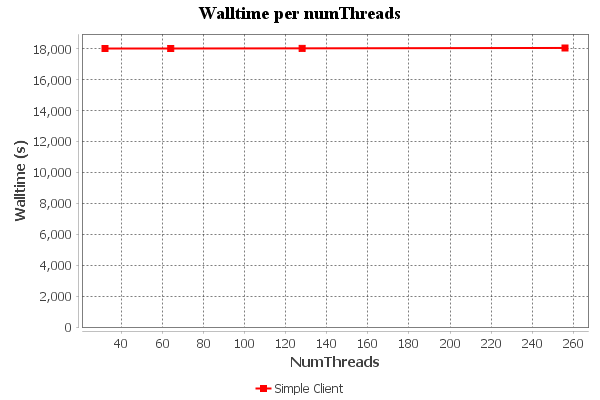
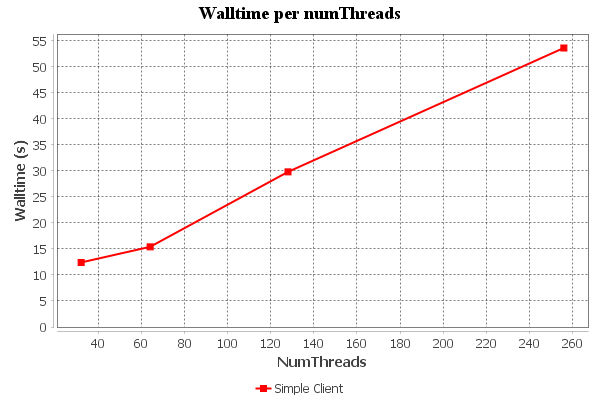
change main thread logic to start store threads (misundertood requirements before)

diff --git a/a1client2/src/main/java/SuperMarketClient.java b/a1client2/src/main/java/SuperMarketClient.java
@@ -13,6 +13,7 @@ import java.util.concurrent.Executors;
 import java.util.concurrent.ScheduledExecutorService;
 import java.util.concurrent.ThreadPoolExecutor;
 import java.util.concurrent.TimeUnit;
+import java.util.concurrent.atomic.AtomicBoolean;
 import java.util.concurrent.atomic.AtomicInteger;
 import java.util.concurrent.atomic.AtomicLong;
 import multithread.CSVWriter;
@@ -32,7 +33,6 @@ public class SuperMarketClient {
     Properties prop = SuperMarketConfig.loadConfig();
     assert prop != null;
     int[] numThreadsArray = {32, 64, 128, 256};
-//    int[] numThreadsArray = {4000};
     double[] throughputs = new double[numThreadsArray.length];
     double[] means = new double[numThreadsArray.length];
 
@@ -42,7 +42,7 @@ public class SuperMarketClient {
 
       BlockingQueue<String> responses = new ArrayBlockingQueue<>(100000);
       ThreadPoolExecutor producers = (ThreadPoolExecutor) Executors.newFixedThreadPool(1000);
-      ThreadPoolExecutor consumers = (ThreadPoolExecutor) Executors.newFixedThreadPool(30);
+      ThreadPoolExecutor consumers = (ThreadPoolExecutor) Executors.newFixedThreadPool(60);
 
       int latencyLowerBarrier = Integer.parseInt(prop.getProperty(Constants.LATENCY_LOWER_BARRIER));
       int latencyUpperBarrier = Integer.parseInt(prop.getProperty(Constants.LATENCY_UPPER_BARRIER));
@@ -67,18 +67,21 @@ public class SuperMarketClient {
       AtomicInteger maxLatency = new AtomicInteger();
 
       long start = System.currentTimeMillis();
+      AtomicBoolean isPhase2Begin = new AtomicBoolean(false);
+      AtomicBoolean isPhase3Begin = new AtomicBoolean(false);
 
       // producers sending POST requests
       // phase 1
       int curStoreID = 0;
       for (int i = 1; i <= numThreads / 4; i++) {
-        PurchaseTask task = new PurchaseTask(prop, curStoreID + i, numReqs, numFailed, responses);
+        PurchaseTask task = new PurchaseTask(prop, curStoreID + i, numReqs, numFailed
+            , responses, isPhase2Begin, isPhase3Begin);
         producers.execute(task);
       }
       curStoreID += numThreads / 4;
 
       // consumers retrieving response strings
-      for (int i = 0; i < 20; i++) {
+      for (int i = 0; i < 60; i++) {
         ResponseRecordsConsumer task = new ResponseRecordsConsumer(responses, buckets, bucketLocks
             , numResponsesInBuckets, latencyLowerBarrier, latencyUpperBarrier, gap
             , meanLatency, maxLatency);
@@ -90,37 +93,33 @@ public class SuperMarketClient {
       scheduler.scheduleAtFixedRate(new CSVWriter(buckets, bucketLocks), 10, 15, TimeUnit.SECONDS);
 
       // phase 2
-      Thread.sleep(3 * 60 * 60 * 1000);
-      for (int i = 1; i <= numThreads / 4; i++) {
-        PurchaseTask task = new PurchaseTask(prop, curStoreID + i, numReqs, numFailed, responses);
-        producers.execute(task);
-      }
-      curStoreID += numThreads / 4;
-
-      for (int i = 0; i < 20; i++) {
-        ResponseRecordsConsumer task = new ResponseRecordsConsumer(responses, buckets, bucketLocks
-            , numResponsesInBuckets, latencyLowerBarrier, latencyUpperBarrier, gap
-            , meanLatency, maxLatency);
-        consumers.execute(task);
+      while (true) {
+        if (isPhase2Begin.get()) {
+          for (int i = 1; i <= numThreads / 4; i++) {
+            PurchaseTask task = new PurchaseTask(prop, curStoreID + i, numReqs, numFailed
+               , responses, isPhase2Begin, isPhase3Begin);
+            producers.execute(task);
+          }
+          curStoreID += numThreads / 4;
+          break;
+        }
       }
 
       // phase 3
-      Thread.sleep(2 * 60 * 60 * 1000);
-      for (int i = 1; i <= numThreads / 2; i++) {
-        PurchaseTask task = new PurchaseTask(prop, curStoreID + i, numReqs, numFailed, responses);
-        producers.execute(task);
-      }
-      curStoreID += numThreads / 2;
-
-      for (int i = 0; i < 20; i++) {
-        ResponseRecordsConsumer task = new ResponseRecordsConsumer(responses, buckets, bucketLocks
-            , numResponsesInBuckets, latencyLowerBarrier, latencyUpperBarrier, gap
-            , meanLatency, maxLatency);
-        consumers.execute(task);
+      while (true) {
+        if (isPhase3Begin.get()) {
+          for (int i = 1; i <= numThreads / 2; i++) {
+            PurchaseTask task = new PurchaseTask(prop, curStoreID + i, numReqs, numFailed
+                , responses, isPhase2Begin, isPhase3Begin);
+            producers.execute(task);
+          }
+          curStoreID += numThreads / 2;
+          break;
+        }
       }
 
       producers.shutdown();
-      producers.awaitTermination(5, TimeUnit.MINUTES);
+      producers.awaitTermination(10, TimeUnit.MINUTES);
 
       long end = System.currentTimeMillis();
       long wallTime = end - start;

diff --git a/a1client1/src/main/java/SuperMarketClient.java b/a1client1/src/main/java/SuperMarketClient.java
@@ -6,6 +6,7 @@ import java.util.Properties;
 import java.util.concurrent.Executors;
 import java.util.concurrent.ThreadPoolExecutor;
 import java.util.concurrent.TimeUnit;
+import java.util.concurrent.atomic.AtomicBoolean;
 import java.util.concurrent.atomic.AtomicInteger;
 import multithread.PurchaseTask;
 import util.LineCharter;
@@ -25,33 +26,46 @@ public class SuperMarketClient {
       AtomicInteger numFailed = new AtomicInteger();
 
       long start = System.currentTimeMillis();
+      AtomicBoolean isPhase2Begin = new AtomicBoolean(false);
+      AtomicBoolean isPhase3Begin = new AtomicBoolean(false);
 
       // phase 1
       int curStoreID = 0;
       for (int i = 1; i <= numThreads / 4; i++) {
-        PurchaseTask task = new PurchaseTask(prop, curStoreID + i, numReqs, numFailed);
+        PurchaseTask task = new PurchaseTask(prop, curStoreID + i, numReqs, numFailed
+            , isPhase2Begin, isPhase3Begin);
         executor.execute(task);
       }
       curStoreID += numThreads / 4;
 
       // phase 2
-      Thread.sleep(3 * 60 * 60 * 1000);
-      for (int i = 1; i <= numThreads / 4; i++) {
-        PurchaseTask task = new PurchaseTask(prop, curStoreID + i, numReqs, numFailed);
-        executor.execute(task);
+      while (true) {
+        if (isPhase2Begin.get()) {
+          for (int i = 1; i <= numThreads / 4; i++) {
+            PurchaseTask task = new PurchaseTask(prop, curStoreID + i, numReqs, numFailed
+                , isPhase2Begin, isPhase3Begin);
+            executor.execute(task);
+          }
+          curStoreID += numThreads / 4;
+          break;
+        }
       }
-      curStoreID += numThreads / 4;
 
       // phase 3
-      Thread.sleep(2 * 60 * 60 * 1000);
-      for (int i = 1; i <= numThreads / 2; i++) {
-        PurchaseTask task = new PurchaseTask(prop, curStoreID + i, numReqs, numFailed);
-        executor.execute(task);
+      while (true) {
+        if (isPhase3Begin.get()) {
+          for (int i = 1; i <= numThreads / 2; i++) {
+            PurchaseTask task = new PurchaseTask(prop, curStoreID + i, numReqs, numFailed
+                , isPhase2Begin, isPhase3Begin);
+            executor.execute(task);
+          }
+          curStoreID += numThreads / 2;
+          break;
+        }
       }
-      curStoreID += numThreads / 2;
 
       executor.shutdown();
-      executor.awaitTermination(5, TimeUnit.MINUTES);
+      executor.awaitTermination(10, TimeUnit.MINUTES);
 
       long end = System.currentTimeMillis();
       long wallTime = end - start;
@@ -61,6 +75,7 @@ public class SuperMarketClient {
       System.out.println("Number of sent POST requests:" + numReqs.get());
       System.out.println("Number of failed POST requests: " + numFailed.get());
       System.out.println("Throughput is: " + (numReqs.get() * 1000.0 / wallTime ));
+      System.out.println();
 
       loop++;
     }

diff --git a/a1client2/src/main/java/multithread/PurchaseTask.java b/a1client2/src/main/java/multithread/PurchaseTask.java
@@ -13,6 +13,7 @@ import java.util.Properties;
 import java.util.concurrent.BlockingQueue;
 import java.util.concurrent.ThreadLocalRandom;
 import java.util.concurrent.TimeUnit;
+import java.util.concurrent.atomic.AtomicBoolean;
 import java.util.concurrent.atomic.AtomicInteger;
 
 public class PurchaseTask implements Runnable {
@@ -27,13 +28,18 @@ public class PurchaseTask implements Runnable {
   private String baseURL;
   private BlockingQueue<String> blockingQueue;
   private String savedWhenTimeout = "";
+  private AtomicBoolean isPhase2Begin;
+  private AtomicBoolean isPhase3Begin;
 
   public PurchaseTask(Properties prop, Integer storeID, AtomicInteger numReqs,
-      AtomicInteger numFailed, BlockingQueue<String> blockingQueue) {
+      AtomicInteger numFailed, BlockingQueue<String> blockingQueue,
+      AtomicBoolean isPhase2Begin, AtomicBoolean isPhase3Begin) {
     this.storeID = storeID;
     this.numReqs = numReqs;
     this.numFailed = numFailed;
     this.blockingQueue = blockingQueue;
+    this.isPhase2Begin = isPhase2Begin;
+    this.isPhase3Begin = isPhase3Begin;
     this.numCusts = Integer.parseInt(prop.getProperty(Constants.NUM_CUSTS));
     this.maxItemID = Integer.parseInt(prop.getProperty(Constants.MAX_ITEM_ID));
     this.numPurchases = Integer.parseInt(prop.getProperty(Constants.NUM_PURCHASES));
@@ -87,6 +93,11 @@ public class PurchaseTask implements Runnable {
   @Override
   public void run() {
     for (int i = 0; i < Constants.OPEN_HOURS * this.numPurchases; i++) {
+      if (!this.isPhase3Begin.get() && i >= Constants.PHASE3 * this.numPurchases) {
+        this.isPhase3Begin.set(true);
+      } else if (!this.isPhase2Begin.get() && i >= Constants.PHASE2 * this.numPurchases) {
+        this.isPhase2Begin.set(true);
+      }
       final ThreadLocalRandom random = ThreadLocalRandom.current();
       Integer custID = random.nextInt(this.storeID * Constants.MAX_NUM_CUSTS,
           this.storeID * Constants.MAX_NUM_CUSTS + this.numCusts);

diff --git a/a1client1/src/main/java/multithread/PurchaseTask.java b/a1client1/src/main/java/multithread/PurchaseTask.java
@@ -11,6 +11,7 @@ import java.util.ArrayList;
 import java.util.List;
 import java.util.Properties;
 import java.util.concurrent.ThreadLocalRandom;
+import java.util.concurrent.atomic.AtomicBoolean;
 import java.util.concurrent.atomic.AtomicInteger;
 
 public class PurchaseTask implements Runnable {
@@ -23,11 +24,16 @@ public class PurchaseTask implements Runnable {
   private Integer numItems;
   private String date;
   private String baseURL;
+  private AtomicBoolean isPhase2Begin;
+  private AtomicBoolean isPhase3Begin;
 
-  public PurchaseTask(Properties prop, Integer storeID, AtomicInteger numReqs, AtomicInteger numFailed) {
+  public PurchaseTask(Properties prop, Integer storeID, AtomicInteger numReqs, AtomicInteger numFailed
+      , AtomicBoolean isPhase2Begin, AtomicBoolean isPhase3Begin) {
     this.storeID = storeID;
     this.numReqs = numReqs;
     this.numFailed = numFailed;
+    this.isPhase2Begin = isPhase2Begin;
+    this.isPhase3Begin = isPhase3Begin;
     this.numCusts = Integer.parseInt(prop.getProperty(Constants.NUM_CUSTS));
     this.maxItemID = Integer.parseInt(prop.getProperty(Constants.MAX_ITEM_ID));
     this.numPurchases = Integer.parseInt(prop.getProperty(Constants.NUM_PURCHASES));
@@ -62,6 +68,11 @@ public class PurchaseTask implements Runnable {
   @Override
   public void run() {
     for (int i = 0; i < Constants.OPEN_HOURS * this.numPurchases; i++) {
+      if (!this.isPhase3Begin.get() && i >= Constants.PHASE3 * this.numPurchases) {
+        this.isPhase3Begin.set(true);
+      } else if (!this.isPhase2Begin.get() && i >= Constants.PHASE2 * this.numPurchases) {
+        this.isPhase2Begin.set(true);
+      }
       final ThreadLocalRandom random = ThreadLocalRandom.current();
       Integer custID = random.nextInt(this.storeID * Constants.MAX_NUM_CUSTS,
           this.storeID * Constants.MAX_NUM_CUSTS + this.numCusts);
